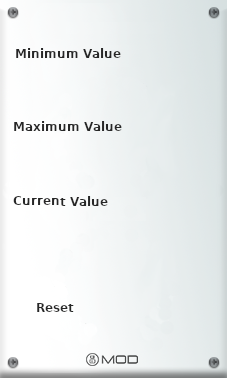
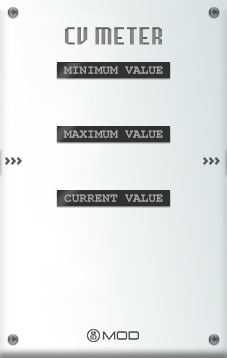
Update mod-cv-meter gui

diff --git a/mod-cv-meter/source/mod-cv-meter.lv2/modgui/stylesheet-cv-meter.css b/mod-cv-meter/source/mod-cv-meter.lv2/modgui/stylesheet-cv-meter.css
@@ -4,8 +4,8 @@
     background-image: url(/resources/mod_cv_meter_bg.png{{{ns}}});
     background-position: center center;
     background-repeat: no-repeat;
-    background-size: 227px 378px;
-    height: 378px;
+    background-size: 227px 358px;
+    height: 358px;
     position: absolute;
     width: 227px;
 }
@@ -15,107 +15,106 @@
 
 .mod-cv-meter{{{cns}}} .mod-pedal-input,
 .mod-cv-meter{{{cns}}} .mod-pedal-output {
-    top: 130px;
+    top: 132px;
+}
+
+/* = LIGHT ON/OFF
+================================================ */
+.mod-cv-meter{{{cns}}} .mod-light {
+    background-image: url(/resources/spritesheets/lights.png{{{ns}}}) !important;
+    background-position: right center;
+    background-repeat: no-repeat;
+    height: 25px;
+    width: 25px;
+    position: absolute;
+    right: 20px;
+    top: 23px;
+}
+
+.mod-cv-meter{{{cns}}} .mod-light.off {
+  background-position: right center;
+}
+
+.mod-cv-meter{{{cns}}} .mod-light.on {
+  background-position: left center;
+}
+
+/* = SWITCH
+================================================ */
+.mod-cv-meter{{{cns}}} .mod-switch {
+    background-image: url(/resources/spritesheets/switch_key.png{{{ns}}});
+    background-position: center top;
+    background-repeat: no-repeat;
+    background-size: auto 28px 38.5px;
+    top: 44px;
+    right: 18px;
+    cursor: pointer;
+    height: 38.5px;
+    width: 28px;
+    margin: auto;
+    position: absolute;
+    z-index: 30;
+}
+
+.mod-cv-meter{{{cns}}} .mod-switch.on {
+  background-position: center top;
+  top: 54px;
+}
+
+.mod-cv-meter{{{cns}}} .mod-switch.off {
+  background-position: center bottom;
 }
 
 /* RESET
 ================================================ */
 
-.mod-cv-meter{{{cns}}} .mod-footswitch {
-    background-image:url(/resources/footswitch.png{{{ns}}});
+.mod-cv-meter{{{cns}}} .mod-reset {
+    background-image:url(/resources/spritesheets/button_horizontal.png{{{ns}}});
     background-position:top center;
     background-repeat:no-repeat;
-    background-size:auto 132px;
-    bottom: 35px;
+    bottom: 58px;
     cursor:pointer;
-    height:66px;
-    width: 66px;
-    left: 87px !important;
+    height: 33px;
+    width: 65px;
+    left: 82px;
     position:absolute;
+    z-index: 101;
 }
 
-.mod-cv-meter{{{cns}}} .mod-footswitch.on {
+.mod-cv-meter{{{cns}}} .mod-reset.on {
     background-position:top center;
 }
 
-.mod-cv-meter{{{cns}}} .mod-footswitch.off {
+.mod-cv-meter{{{cns}}} .mod-reset.off {
     background-position:bottom center;
 }
 
+.mod-cv-meter{{{cns}}} .mod-cv-meter-display {
+  background-color:#a4cbce;
+  position:relative;
+  text-align:center;
+  z-index:0;
+  color:black;
+  box-shadow: 0px 2px 2px 0px #688182 inset, 1px -1px 1px 1px #98BEC3 inset;
+  margin-right: 40px;
+  margin-left: 40px;
+}
+
 .mod-cv-meter{{{cns}}} .mod-display-group {
-    background-color:#aacc66;
-    margin:60px 11px 0 10px !important;
-    position:relative;
-    text-align:center;
-    z-index:0;
-    color:black;
-    box-shadow: 2px 2px 2px 0px #000 inset, -1px -1px 1px 1px #888 inset;
+    margin-top: 85px;
 }
 
-.mod-cv-meter{{{cns}}} .mod-display-group div {
-    padding:0;
-    line-height:1.25em;
-    vertical-align:middle;
+.mod-cv-meter{{{cns}}} .mod-cv-meter-display div {
+    height: 28px;
 }
 
-.mod-cv-meter{{{cns}}} .mod-display-group .min_level {
-    font-size:20px;
-    line-height:1.5em;
-    width:60px;
-    display:inline-block;
-    text-align:right;
-    z-index:6;
-    margin: 4px 0 2px 0;
+.mod-cv-meter{{{cns}}} .mod-cv-meter-display div span {
+  text-align: center;
+  font-size: 20px;
+  line-height: 30px;
 }
 
-.mod-cv-meter{{{cns}}} .mod-display-max {
-    background-color:#aacc66;
-    margin:40px 11px 0 10px !important;
-    position:relative;
-    text-align:center;
-    z-index:0;
-    color:black;
-    box-shadow: 2px 2px 2px 0px #000 inset, -1px -1px 1px 1px #888 inset;
-}
-
-.mod-cv-meter{{{cns}}} .mod-display-max div {
-    padding:0;
-    line-height:1.25em;
-    vertical-align:middle;
-}
-
-.mod-cv-meter{{{cns}}} .mod-display-max .max_level {
-    font-size:20px;
-    line-height:1.5em;
-    width:50px;
-    display:inline-block;
-    text-align:right;
-    z-index:6;
-    margin: 4px 0 2px 0;
-}
-
+.mod-cv-meter{{{cns}}} .mod-display-max,
 .mod-cv-meter{{{cns}}} .mod-display-current {
-    background-color:#aacc66;
-    margin:40px 11px 0 10px !important;
-    position:relative;
-    text-align:center;
-    z-index:0;
-    color:black;
-    box-shadow: 2px 2px 2px 0px #000 inset, -1px -1px 1px 1px #888 inset;
-}
-
-.mod-cv-meter{{{cns}}} .mod-display-current div {
-    padding:0;
-    line-height:1.25em;
-    vertical-align:middle;
-}
-
-.mod-cv-meter{{{cns}}} .mod-display-current .current_level {
-    font-size:20px;
-    line-height:1.5em;
-    width:60px;
-    display:inline-block;
-    text-align:right;
-    z-index:6;
-    margin: 4px 0 2px 0;
+    margin-top: 36px;
 }

diff --git a/mod-cv-meter/source/mod-cv-meter.lv2/modgui/icon-cv-meter.html b/mod-cv-meter/source/mod-cv-meter.lv2/modgui/icon-cv-meter.html
@@ -1,22 +1,24 @@
 <div class="mod-pedal mod-cv-meter{{{cns}}}">
     <div mod-role="drag-handle" class="mod-drag-handle"></div>
-    <div class="mod-display-group clearfix" mod-role="dpm">
+    <div class="mod-light on" mod-role="bypass-light"></div>
+    <div class="mod-switch" mod-role="bypass"></div>
+    <div class="mod-cv-meter-display mod-display-group clearfix" mod-role="dpm">
         <div title="Output Digital Peak, rise-time: immediate, falloff: 15dB/sec">
             <span class="min_level" mod-role="min_level">0.0</span>
         </div>
     </div>
-    <div class="mod-display-max clearfix" mod-role="dpm">
+    <div class="mod-cv-meter-display mod-display-max clearfix" mod-role="dpm">
         <div title="Output Digital Peak, rise-time: immediate, falloff: 15dB/sec">
             <span class="max_level" mod-role="max_level">0.0</span>
         </div>
     </div>
-    <div class="mod-display-current clearfix" mod-role="dpm">
+    <div class="mod-cv-meter-display mod-display-current clearfix" mod-role="dpm">
         <div title="Output Digital Peak, rise-time: immediate, falloff: 15dB/sec">
             <span class="current_level" mod-role="current_level">0.0</span>
         </div>
     </div>
 
-    <div class="mod-footswitch" mod-role="input-control-port" mod-port-symbol="Reset" title="Reset"></div>
+    <div class="mod-reset" mod-role="input-control-port" mod-port-symbol="Reset" title="Reset"></div>
     <div class="mod-pedal-input">
         {{#effect.ports.cv.input}}
         <div class="mod-input mod-input-disconnected" title="{{name}}" mod-role="input-cv-port" mod-port-symbol="{{symbol}}">
